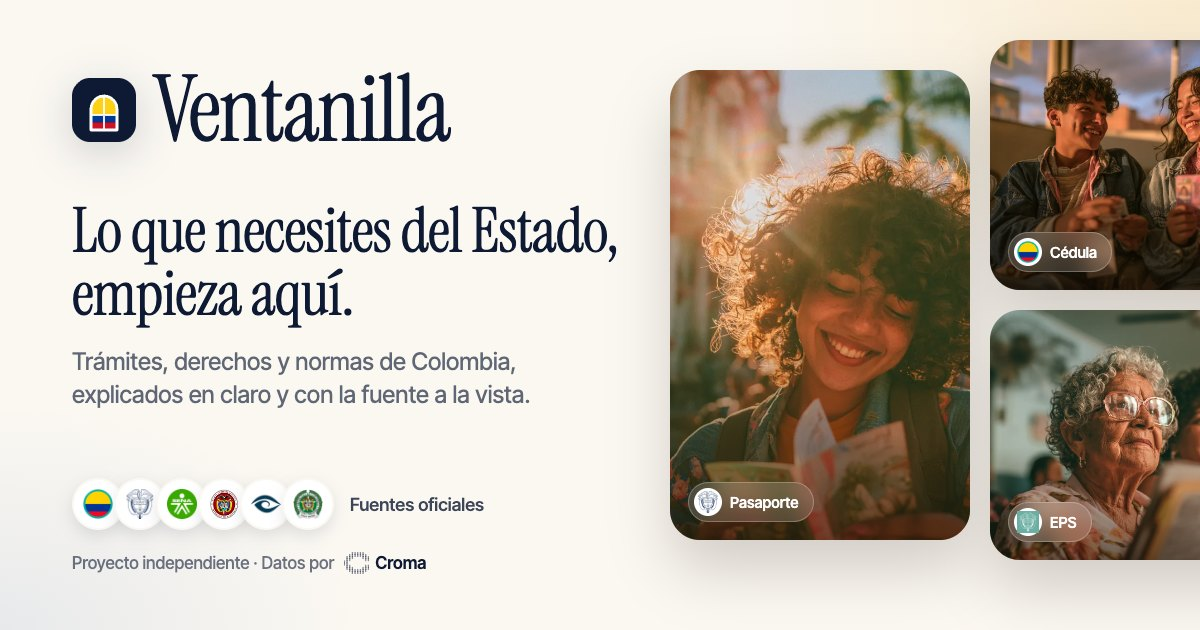
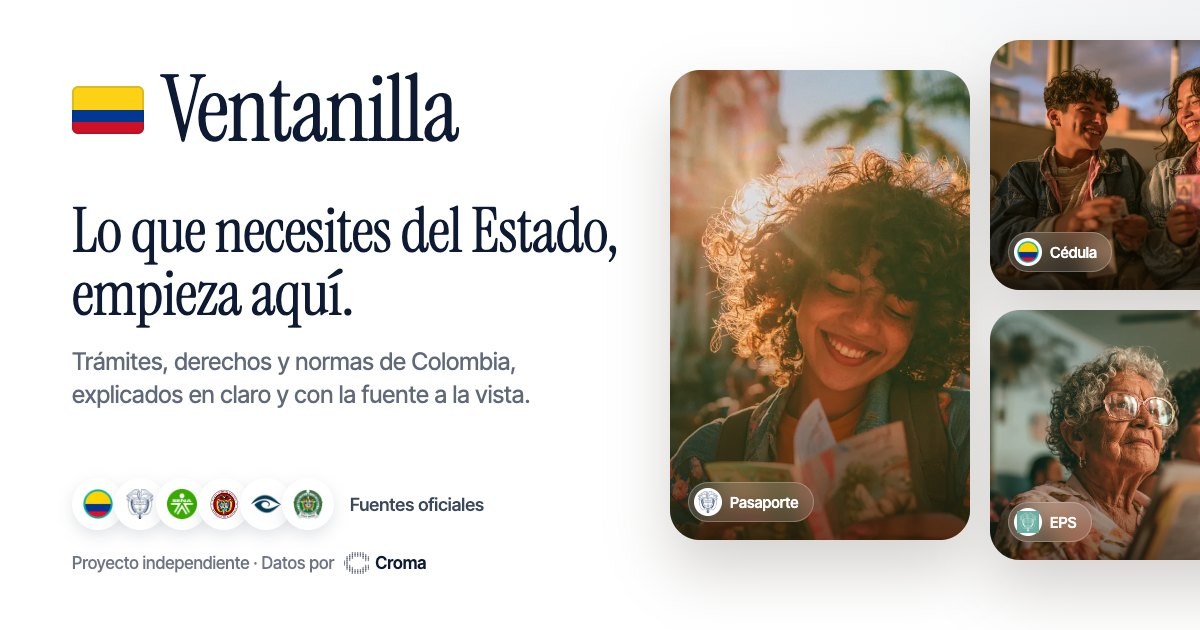
Neutral institutional palette, flat tricolor mark, lighter mobile composer, send key hint

Changed region(s): [[0.0308, 0.0905, 0.4008, 0.2714], [0.8017, 0.0, 1.0, 0.1206]]

diff --git a/src/components/hero/Hero.tsx b/src/components/hero/Hero.tsx
@@ -21,7 +21,7 @@ function Backdrop({ index, progress }: { index: number; progress: MotionValue<nu
   const opacity = useTransform(progress, (position) => Math.max(0, 1 - Math.abs(wrap(-count / 2, count / 2, index - position))));
   return (
     <motion.div aria-hidden className="absolute inset-0 will-change-[opacity]" style={{ opacity }}>
-      <div className="absolute inset-0 bg-cover bg-center blur-3xl saturate-150" style={{ backgroundImage: wash(heroCards[index]) }} />
+      <div className="absolute inset-0 bg-cover bg-center blur-3xl" style={{ backgroundImage: wash(heroCards[index]) }} />
     </motion.div>
   );
 }
@@ -122,9 +122,9 @@ export default function Hero() {
       <section className="relative isolate flex flex-col items-center rounded-40 pt-40 pb-10 mobile:min-h-[calc(100svh-92px)] mobile:justify-center mobile:rounded-48 mobile:px-8 mobile:pt-36 mobile:pb-36">
         <div
           aria-hidden
-          className="squircle pointer-events-none absolute inset-0 -z-10 overflow-hidden rounded-40 [clip-path:inset(0_round_var(--radius-40))] mobile:rounded-48 mobile:[clip-path:inset(0_round_var(--radius-48))]"
+          className="squircle pointer-events-none absolute inset-0 -z-10 overflow-hidden rounded-40 bg-linear-to-b from-[#f4f5f7] to-[#f8f8f9] [clip-path:inset(0_round_var(--radius-40))] mobile:rounded-48 mobile:[clip-path:inset(0_round_var(--radius-48))]"
         >
-          <div className="absolute top-[-16%] left-[-12%] h-[132%] w-[124%] opacity-30">
+          <div className="absolute top-[-16%] left-[-12%] h-[132%] w-[124%] opacity-[0.07] saturate-0">
             {heroCards.map((card, index) => (
               <Backdrop key={card.slug} index={index} progress={progress} />
             ))}

diff --git a/src/components/hero/Composer.tsx b/src/components/hero/Composer.tsx
@@ -19,7 +19,7 @@ type ComposerProps = {
 };
 
 const shell: Record<Variant, string> = {
-  hero: "min-h-14 rounded-32 py-2.5 pr-3 pl-6 shadow-composer-sm outline-2 outline-ring max-md:p-3 mobile:min-h-0 mobile:rounded-[48px] mobile:py-[23px] mobile:pr-[23px] mobile:pl-10 mobile:shadow-none",
+  hero: "min-h-14 rounded-32 py-2.5 pr-3 pl-6 shadow-composer-sm outline-2 outline-ring max-md:p-3 max-md:outline-1 max-md:outline-border-secondary max-md:focus-within:outline-2 max-md:focus-within:outline-ring mobile:min-h-0 mobile:rounded-[48px] mobile:py-[23px] mobile:pr-[23px] mobile:pl-10 mobile:shadow-none",
   dock: "min-h-14 rounded-32 py-2.5 pr-3 pl-6 shadow-composer-sm outline-1 outline-border-secondary focus-within:outline-2 focus-within:outline-ring sm:shadow-elevation-1 mobile:rounded-[48px] mobile:py-[22px] mobile:pr-6 mobile:pl-8",
 };
 
@@ -101,6 +101,7 @@ export default function Composer({ variant, placeholder = "", fallback, preview,
               <textarea
                 ref={textarea}
                 rows={1}
+                enterKeyHint="send"
                 value={value}
                 onChange={(event) => setValue(event.target.value)}
                 onKeyDown={onKeyDown}

diff --git a/src/components/features/orbit-renderer.ts b/src/components/features/orbit-renderer.ts
@@ -41,7 +41,7 @@ export function drawTile({ label, domain }: OrbitSite, icon: HTMLImageElement | 
   context.beginPath();
   context.roundRect(0, 0, tileSize.width, tileSize.height, 28);
   context.fill();
-  context.fillStyle = "#f4efe6";
+  context.fillStyle = "#f2f3f5";
   context.beginPath();
   context.roundRect(0, 0, tileSize.width, 52, [28, 28, 0, 0]);
   context.fill();
@@ -66,7 +66,7 @@ export function drawTile({ label, domain }: OrbitSite, icon: HTMLImageElement | 
   context.fillStyle = "#0e1a33";
   context.font = `400 ${label.length > 12 ? 40 : 50}px "Instrument Serif", serif`;
   context.fillText(label, icon ? 172 : 36, 138, tileSize.width - (icon ? 200 : 64));
-  context.fillStyle = "#ece6da";
+  context.fillStyle = "#e6e7ea";
   [0, 1].forEach((row) => {
     context.beginPath();
     context.roundRect(36, 240 + row * 30, row === 1 ? 220 : 408, 12, 6);

diff --git a/src/styles/global.css b/src/styles/global.css
@@ -37,7 +37,7 @@
   --color-tertiary: #0e1a3373;
   --color-primary-invert: #fff;
   --color-link: #0a4fb5;
-  --color-background-primary: #fbf8f2;
+  --color-background-primary: #fff;
   --color-background-primary-invert: #0b1428;
   --color-background-secondary: #0026641a;
   --color-background-tertiary: #0026640d;
@@ -45,9 +45,9 @@
   --color-border-secondary: #000c1f73;
   --color-border-tertiary: #000c1f1a;
   --color-border-quaternary: #000c1f0d;
-  --color-surface-neutral: #f4efe6;
-  --color-surface-muted: #f2ece1;
-  --color-surface-footer: #f5efe4;
+  --color-surface-neutral: #f6f6f7;
+  --color-surface-muted: #f4f4f5;
+  --color-surface-footer: #f7f7f8;
   --color-manifesto-frost: #b6b6b626;
   --color-ring: #0e1a33;
   --color-sol: #f2b33d;

diff --git a/src/components/site/MenuSheet.tsx b/src/components/site/MenuSheet.tsx
@@ -12,7 +12,7 @@ const smootherstep = (t: number) => 10 * t ** 2 - 20 * t ** 3 + 15 * t ** 4 - 4 
 const overshoot = (t: number) => smootherstep(t) + 0.65 * t ** 3 * (1 - t) ** 2;
 const standard = [0.25, 0.1, 0.25, 1] as const;
 
-const fill = "#002664";
+const fill = "#0e1a33";
 
 const backdrop: Variants = {
   closed: { opacity: 0 },
